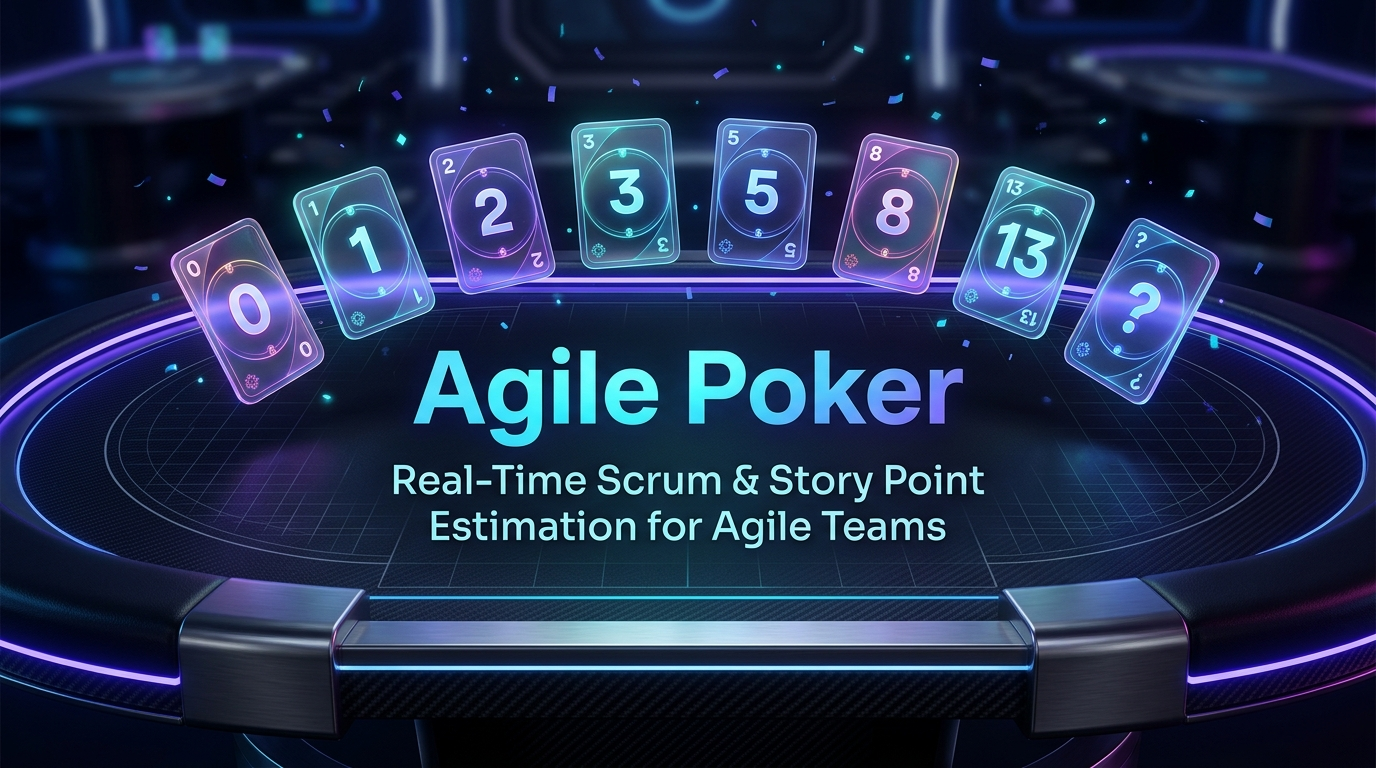
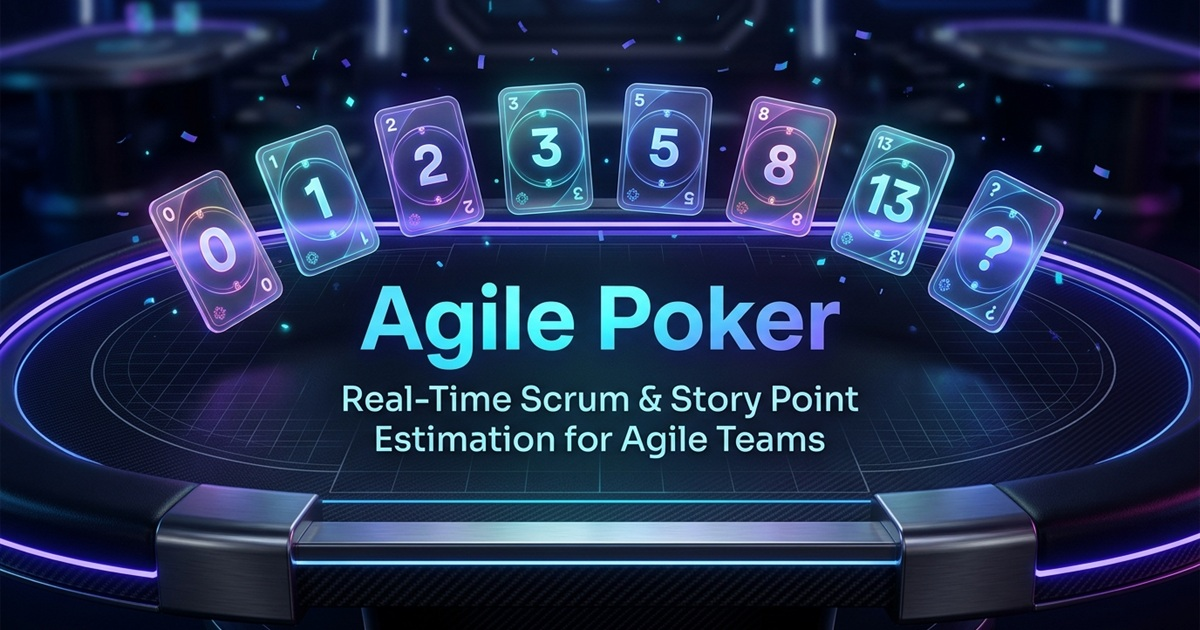
fix og urls

diff --git a/index.html b/index.html
@@ -26,11 +26,12 @@
   <meta property="og:site_name" content="Agile Poker">
   <meta property="og:title" content="🃏 Agile Poker — Real-Time Scrum & Story Point Estimation">
   <meta property="og:description" content="Estimate stories together in style! Real-time multiplayer Planning Poker with consensus confetti, custom avatars, and agile trivia.">
-  <meta property="og:image" content="./og-preview.jpg">
-  <meta property="og:image:secure_url" content="./og-preview.jpg">
+  <meta property="og:url" content="https://levii22.github.io/planning-poker/">
+  <meta property="og:image" content="https://levii22.github.io/planning-poker/public/og-preview.jpg">
+  <meta property="og:image:secure_url" content="https://levii22.github.io/planning-poker/public/og-preview.jpg">
   <meta property="og:image:type" content="image/jpeg">
-  <meta property="og:image:width" content="1280">
-  <meta property="og:image:height" content="720">
+  <meta property="og:image:width" content="1200">
+  <meta property="og:image:height" content="630">
   <meta property="og:image:alt" content="Agile Poker - Real-Time Scrum & Story Point Estimation for Agile Teams">
   <meta property="og:locale" content="en_US">
 
@@ -38,7 +39,7 @@
   <meta name="twitter:card" content="summary_large_image">
   <meta name="twitter:title" content="🃏 Agile Poker — Real-Time Story Point Estimation">
   <meta name="twitter:description" content="Estimate stories together in style! Real-time multiplayer Planning Poker with consensus animations, custom avatars, and agile trivia.">
-  <meta name="twitter:image" content="./og-preview.jpg">
+  <meta name="twitter:image" content="https://levii22.github.io/planning-poker/public/og-preview.jpg">
   <meta name="twitter:image:alt" content="Agile Poker table preview with story point cards">
 
   <!-- Icons & Preconnects -->
